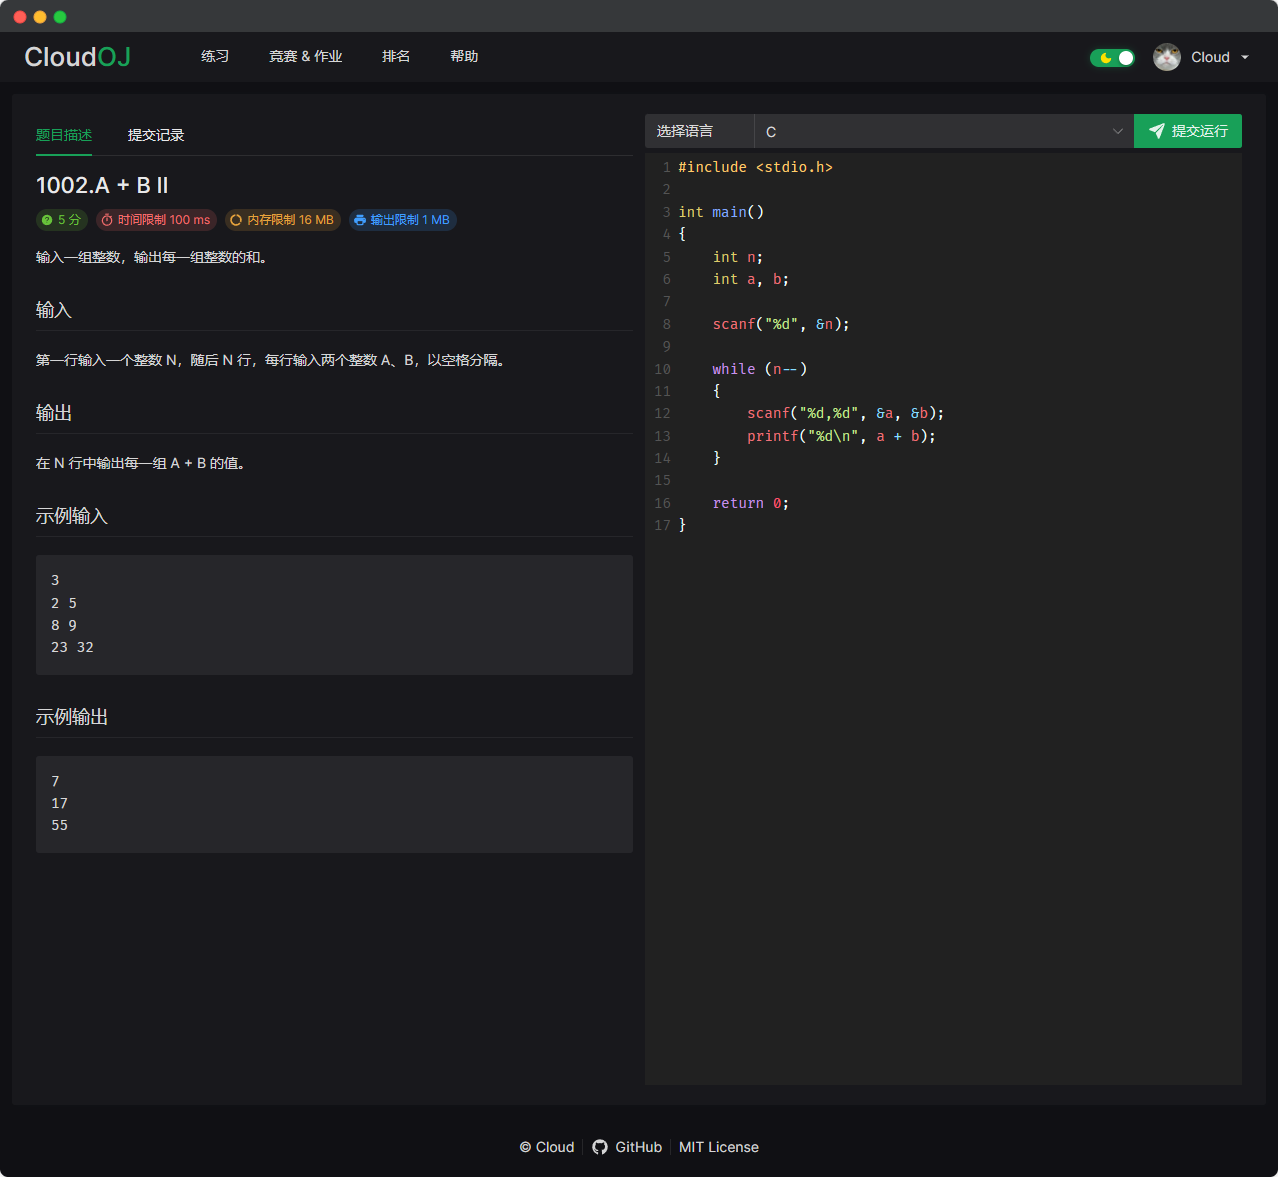
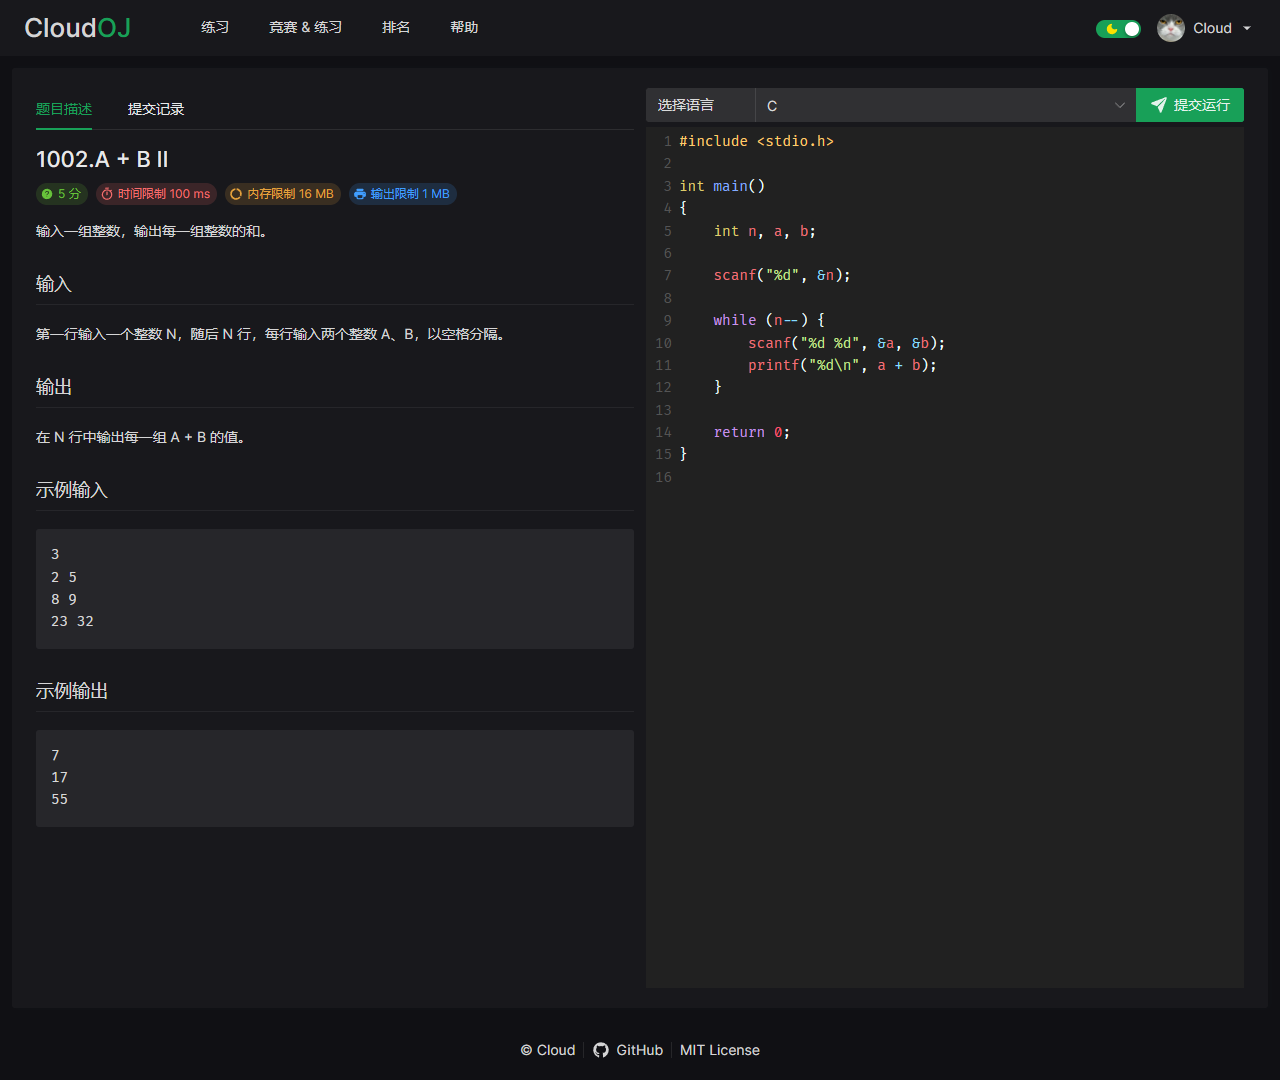
fix(web): fix 401 error of submission page

diff --git a/web/src/views/components/Submission/Index.vue b/web/src/views/components/Submission/Index.vue
@@ -192,6 +192,15 @@ function submit(data: SourceCode) {
 }
 </script>
 
+<style lang="scss">
+.cm-s-ttcn {
+  border-left: 0;
+  border-top: 1px solid #f7f7f7;
+  border-right: 1px solid #f7f7f7;
+  border-bottom: 1px solid #f7f7f7;
+}
+</style>
+
 <style scoped lang="scss">
 .submission {
   width: calc(100% - var(--layout-padding) * 2);

diff --git a/web/src/views/layout/TopNavbar.vue b/web/src/views/layout/TopNavbar.vue
@@ -33,7 +33,7 @@ const navMenuOptions = [
     key: "problems"
   },
   {
-    label: () => <RouterLink to={{ name: "contests" }}>竞赛 & 作业</RouterLink>,
+    label: () => <RouterLink to={{ name: "contests" }}>竞赛 & 练习</RouterLink>,
     key: "contests"
   },
   {

diff --git a/web/src/views/layout/UserMenu.vue b/web/src/views/layout/UserMenu.vue
@@ -110,6 +110,7 @@ function logoff() {
   AuthApi.logoff(userInfo.value)
     .then(() => {
       message.success(`${userInfo.value.name} 已退出`)
+      login()
     })
     .catch((err: ErrorMessage) => {
       message.warning(err.toString())

diff --git a/web/src/api/request/problem-api.ts b/web/src/api/request/problem-api.ts
@@ -88,7 +88,7 @@ const ProblemApi = {
   ): Promise<Problem> {
     let path: string, headers: any
 
-    if (userInfo == null) {
+    if (userInfo == null || userInfo.roleId == 1) {
       path = ApiPath.PROBLEM
       headers = null
     } else {

diff --git a/web/src/views/FrontRoot.vue b/web/src/views/FrontRoot.vue
@@ -48,7 +48,7 @@ const themeOverrides = computed<GlobalThemeOverrides>(() => {
 
   return {
     Layout: {
-      headerColor: "#161b22"
+      headerColor: "#2b2d30"
     }
   }
 })

diff --git a/web/src/views/AdminRoot.vue b/web/src/views/AdminRoot.vue
@@ -98,7 +98,7 @@ const themeOverrides = computed<GlobalThemeOverrides>(() => {
 
   return {
     Layout: {
-      siderColor: "#161b22"
+      siderColor: "#2b2d30"
     }
   }
 })

diff --git a/web/src/views/components/ContestList.vue b/web/src/views/components/ContestList.vue
@@ -133,7 +133,7 @@ const contestColumns: DataTableColumns<Contest> = [
 ]
 
 onBeforeMount(() => {
-  setTitle("竞赛")
+  setTitle("竞赛 & 练习")
   queryContests()
 })
 

diff --git a/web/src/components/UserAvatar.vue b/web/src/components/UserAvatar.vue
@@ -3,7 +3,6 @@
     round
     :src="url"
     :size="size"
-    bordered
     style="vertical-align: middle"
     @error="url = ''" />
 </template>

diff --git a/web/src/style.scss b/web/src/style.scss
@@ -1,6 +1,6 @@
 :root {
   --layout-padding: 12px;
-  --header-height: 50px;
+  --header-height: 56px;
   --primary-color: #18a058;
 }
 
